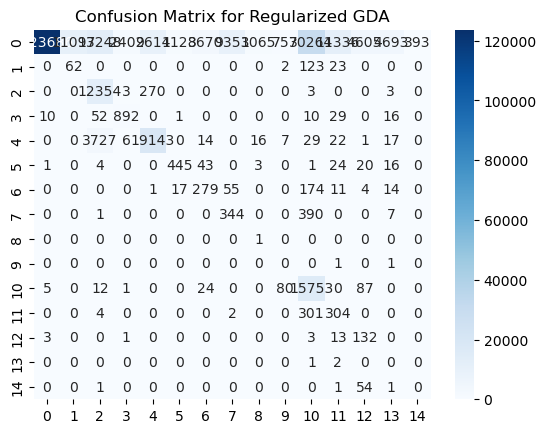
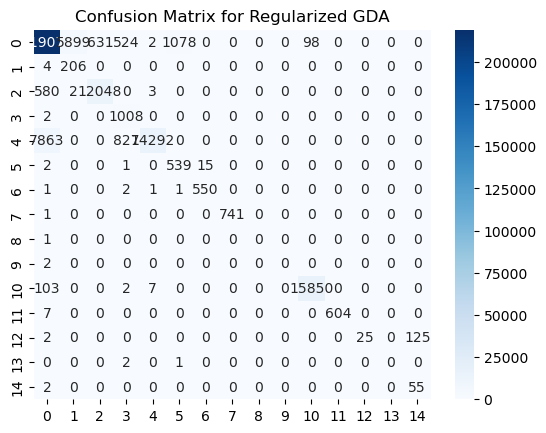
Regularization done for multi-class

diff --git a/hyperparameter_tuner.py b/hyperparameter_tuner.py
@@ -7,11 +7,13 @@ from data_loader import DataLoader
 from sklearn.metrics import accuracy_score
 
 class HyperparameterTuner:
-    def __init__(self, X_train, y_train, X_val, y_val):
+    def __init__(self, X_train, y_train, X_val, y_val, labels_train, labels_val):
         self.X_train = X_train
         self.y_train = y_train
         self.X_val = X_val
         self.y_val = y_val
+        self.labels_train = labels_train
+        self.labels_val = labels_val
 
     def tune_hyperparameters(self, model: BaseEstimator, param_grid: dict = None, cv: int = 5, scoring: str = 'accuracy', n_jobs: int = None):
         grid_search = GridSearchCV(estimator=model, param_grid=param_grid, cv=cv, scoring=scoring, n_jobs=n_jobs)
@@ -22,15 +24,17 @@ class HyperparameterTuner:
 
         return best_params, best_score
 
-    def tune_hyperparameters_holdout(self, model: BaseEstimator, param_grid: dict):
+    def tune_hyperparameters_holdout(self, model: BaseEstimator, param_grid: dict, multi_class: bool = False):
         best_params = None
         best_score = 0
+        y_val = self.labels_val if multi_class else self.y_val
+        y_train = self.labels_train if multi_class else self.y_train
 
         for params in ParameterGrid(param_grid):
             model.set_params(**params)
-            model.fit(self.X_train, self.y_train)
+            model.fit(self.X_train, y_train)
             preds = model.predict(self.X_val)
-            score = accuracy_score(self.y_val, preds)
+            score = accuracy_score(y_val, preds)
 
             if score > best_score:
                 best_score = score
@@ -41,7 +45,7 @@ class HyperparameterTuner:
         print(f"Best parameters: {best_params} with accuracy score: {best_score}")
         return best_params, best_score
 
-    def tune_gda(self):
+    def tune_gda_binary_class(self):
         param_grid = {
             'reg_param': [0.0, 0.1, 0.2, 0.3, 0.4, 0.5, 0.6, 0.7, 0.8, 0.9, 1.0]
         }
@@ -49,21 +53,34 @@ class HyperparameterTuner:
 
         return self.tune_hyperparameters_holdout(model=gda, param_grid=param_grid)
 
-    def tune_logistic_regression(self):
+    def tune_logistic_regression_binary_class(self):
         param_grid = {'C': [0.01, 0.1, 1, 10, 100]}
         lr = LogisticRegression(solver='liblinear', penalty='l2', fit_intercept=True, max_iter=200, verbose=1)
 
         return self.tune_hyperparameters_holdout(model=lr, param_grid=param_grid)
     
+    def tune_gda_multi_class(self):
+        param_grid = {
+            'reg_param': [0.0, 0.1, 0.2, 0.3, 0.4, 0.5, 0.6, 0.7, 0.8, 0.9, 1.0]
+        }
+        gda = QuadraticDiscriminantAnalysis()
+
+        return self.tune_hyperparameters_holdout(model=gda, param_grid=param_grid, multi_class=True)
+
+    def tune_logistic_regression_multi_class(self):
+        param_grid = {'C': [0.01, 0.1, 1, 10, 100]}
+        lr = LogisticRegression(solver='lbfgs', multi_class='multinomial', max_iter=1000, verbose=1)
+
+        return self.tune_hyperparameters_holdout(model=lr, param_grid=param_grid, multi_class=True)
+
 def main():
     current_dir = os.path.dirname(os.path.abspath(__file__))
     data_dir = os.path.join(current_dir, 'data')
     loader = DataLoader(directory=data_dir, verbose=False)
     loader.load_and_clean_data(fresh=True)
     X_train, X_val, X_test, y_train, y_val, y_test, labels_train, labels_val, labels_test = loader.split_data(original_label_column='label', features=None, test_size=0.1, val_size=0.1)
-    tuner = HyperparameterTuner(X_train, y_train, X_val, y_val)
-    # tuner.tune_logistic_regression()
-    tuner.tune_gda()
+    tuner = HyperparameterTuner(X_train, y_train, X_val, y_val, labels_train, labels_val)
+    tuner.tune_logistic_regression_multi_class()
 
 if __name__ == "__main__":
     main()

diff --git a/multi_class_classifier.py b/multi_class_classifier.py
@@ -17,10 +17,10 @@ class MultiClassClassifier:
 
     def load_or_train_models(self, retrain: bool = False) -> Dict[str, Any]:
         models = {
-            'GDA': QuadraticDiscriminantAnalysis(),
-            'Regularized GDA': QuadraticDiscriminantAnalysis(reg_param=0.7),
-            'Logistic Regression': LogisticRegression(random_state=42, solver='lbfgs', multi_class='multinomial', max_iter=1000, verbose=1 if self.verbose else 0),
-            'Decision Tree': DecisionTreeClassifier(random_state=42, criterion='gini', splitter='best', max_depth=None, max_features=None),
+            # 'GDA': QuadraticDiscriminantAnalysis(),
+            'Regularized GDA': QuadraticDiscriminantAnalysis(reg_param=0),
+            'Logistic Regression': LogisticRegression(random_state=42, solver='lbfgs', multi_class='multinomial', C=100, max_iter=1000, verbose=1 if self.verbose else 0),
+            # 'Decision Tree': DecisionTreeClassifier(random_state=42, criterion='gini', splitter='best', max_depth=None, max_features=None),
             # 'Random Forest': RandomForestClassifier(random_state=42, criterion='gini', max_depth=None, max_features='sqrt', n_jobs=-1, verbose=3 if self.verbose else 0),
             # 'SVM': SVC(random_state=42, kernel='rbf', decision_function_shape='ovr', verbose=3 if self.verbose else 0)
         }

diff --git a/main.py b/main.py
@@ -55,7 +55,7 @@ def main(verbose=True) -> None:
 
     # Multi-class classification
     multi_class_classifier = MultiClassClassifier(X_train=X_train, y_train=labels_train, verbose=verbose)
-    multi_class_models = multi_class_classifier.load_or_train_models(retrain=False)
+    multi_class_models = multi_class_classifier.load_or_train_models(retrain=True)
 
     # Multi-class classification evaluation
     multi_class_evaluator = MultiClassClassificationEvaluator(models=multi_class_models, X_test=X_test, y_test=labels_test, scaler=loader.scaler, verbose=verbose)
